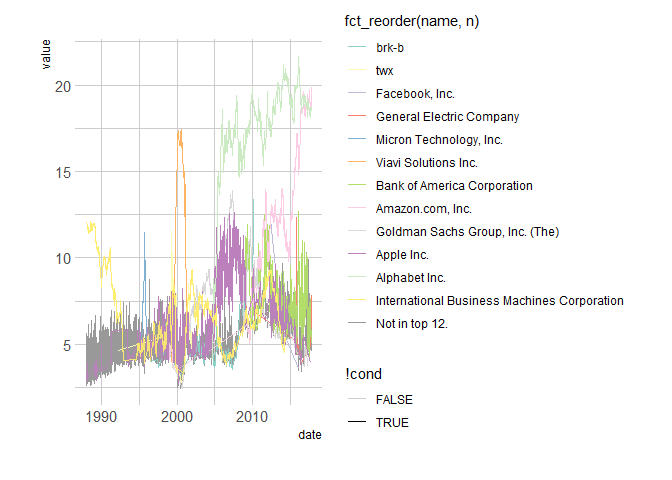
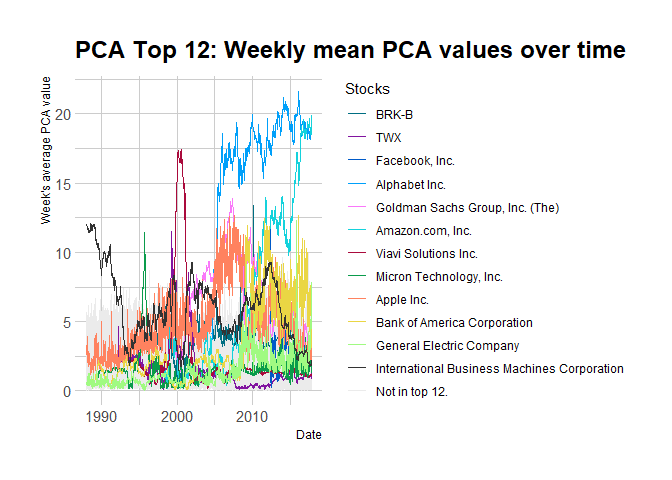
Plot update

diff --git a/eda.md b/eda.md
@@ -74,7 +74,8 @@ days in the dataset.
 Let’s look at one of the days, 2001-06-21:
 
     df_models$pca_model[[400]] %>% 
-      fviz_contrib(choice = "ind", axes = 1:5)
+      fviz_contrib(choice = "ind", axes = 1:5) + 
+      theme(axis.text.x = element_text(size = 7, angle = 90))
 
 ![](eda_files/figure-markdown_strict/unnamed-chunk-2-1.png)
 
@@ -147,12 +148,12 @@ Let’s look at one of the days, 2001-06-21:
     #   fviz_cos2("ind")
 
     df_models$pca_model[[400]] %>%
-      fviz_pca_ind()
+      fviz_pca_ind() 
 
 ![](eda_files/figure-markdown_strict/unnamed-chunk-2-3.png)
 
     df_models$pca_model[[400]] %>%
-      fviz_pca_var()
+      fviz_pca_var(repel = TRUE)
 
 ![](eda_files/figure-markdown_strict/unnamed-chunk-2-4.png)
 
@@ -239,14 +240,97 @@ values over time for each of these stocks.
       arrange(desc(value)) %>% 
       arrange(date) %>% 
       group_by(date) %>% 
-      mutate(rownum = row_number(date)) %>% 
+      mutate(rownum = row_number(date), 
+             stock = str_to_upper(stock)) %>% 
       ungroup() %>% 
       filter(rownum <= 10) %>% # Change this number to get the top X stocks on each day
       left_join(tickers, by = c("stock" = "symbol")) %>% 
       select(date, everything()) %>% 
       filter(rownum <= 5) %>% #distinct(stock) %>%  
       ggplot(aes(date, value)) + 
-      geom_line(aes(color = stock))# + theme(legend.position = "none")
+      geom_line(aes(color = stock)) + 
+      labs(title = "Weekly mean PCA values over time",
+           x = "Date", 
+           y = "Week's average PCA value", 
+           color = "Stocks") + 
+      theme(legend.position = "none") + 
+      theme_ipsum()
+
+    ## Warning in grid.Call(C_stringMetric,
+    ## as.graphicsAnnot(x$label)): font family not
+    ## found in Windows font database
+
+    ## Warning in grid.Call(C_stringMetric,
+    ## as.graphicsAnnot(x$label)): font family not
+    ## found in Windows font database
+
+    ## Warning in grid.Call(C_textBounds,
+    ## as.graphicsAnnot(x$label), x$x, x$y, : font
+    ## family not found in Windows font database
+
+    ## Warning in grid.Call(C_stringMetric,
+    ## as.graphicsAnnot(x$label)): font family not
+    ## found in Windows font database
+
+    ## Warning in grid.Call(C_stringMetric,
+    ## as.graphicsAnnot(x$label)): font family not
+    ## found in Windows font database
+
+    ## Warning in grid.Call(C_textBounds,
+    ## as.graphicsAnnot(x$label), x$x, x$y, : font
+    ## family not found in Windows font database
+
+    ## Warning in grid.Call(C_textBounds,
+    ## as.graphicsAnnot(x$label), x$x, x$y, : font
+    ## family not found in Windows font database
+
+    ## Warning in grid.Call(C_textBounds,
+    ## as.graphicsAnnot(x$label), x$x, x$y, : font
+    ## family not found in Windows font database
+
+    ## Warning in grid.Call(C_textBounds,
+    ## as.graphicsAnnot(x$label), x$x, x$y, : font
+    ## family not found in Windows font database
+
+    ## Warning in grid.Call(C_textBounds,
+    ## as.graphicsAnnot(x$label), x$x, x$y, : font
+    ## family not found in Windows font database
+
+    ## Warning in grid.Call(C_textBounds,
+    ## as.graphicsAnnot(x$label), x$x, x$y, : font
+    ## family not found in Windows font database
+
+    ## Warning in grid.Call(C_textBounds,
+    ## as.graphicsAnnot(x$label), x$x, x$y, : font
+    ## family not found in Windows font database
+
+    ## Warning in grid.Call(C_textBounds,
+    ## as.graphicsAnnot(x$label), x$x, x$y, : font
+    ## family not found in Windows font database
+
+    ## Warning in grid.Call(C_textBounds,
+    ## as.graphicsAnnot(x$label), x$x, x$y, : font
+    ## family not found in Windows font database
+
+    ## Warning in grid.Call(C_textBounds,
+    ## as.graphicsAnnot(x$label), x$x, x$y, : font
+    ## family not found in Windows font database
+
+    ## Warning in grid.Call.graphics(C_text,
+    ## as.graphicsAnnot(x$label), x$x, x$y, : font
+    ## family not found in Windows font database
+
+    ## Warning in grid.Call(C_textBounds,
+    ## as.graphicsAnnot(x$label), x$x, x$y, : font
+    ## family not found in Windows font database
+
+    ## Warning in grid.Call(C_textBounds,
+    ## as.graphicsAnnot(x$label), x$x, x$y, : font
+    ## family not found in Windows font database
+
+    ## Warning in grid.Call(C_textBounds,
+    ## as.graphicsAnnot(x$label), x$x, x$y, : font
+    ## family not found in Windows font database
 
 ![](eda_files/figure-markdown_strict/unnamed-chunk-4-1.png)
 
@@ -270,7 +354,73 @@ values over time for each of these stocks.
       ungroup() %>% 
       filter(max_value >= 11) %>% 
       ggplot(aes(date, value)) + 
-      geom_line(aes(color = name))# + theme(legend.position = "none")
+      geom_line(aes(color = name)) + 
+      labs(title = "PCA Top 12: Weekly mean PCA values over time",
+           x = "Date", 
+           y = "Weekly average PCA value", 
+           color = "Stocks") + 
+      theme(legend.position = "none") + 
+      theme_ipsum()
+
+    ## Warning in grid.Call(C_textBounds,
+    ## as.graphicsAnnot(x$label), x$x, x$y, : font
+    ## family not found in Windows font database
+
+    ## Warning in grid.Call(C_textBounds,
+    ## as.graphicsAnnot(x$label), x$x, x$y, : font
+    ## family not found in Windows font database
+
+    ## Warning in grid.Call(C_textBounds,
+    ## as.graphicsAnnot(x$label), x$x, x$y, : font
+    ## family not found in Windows font database
+
+    ## Warning in grid.Call(C_textBounds,
+    ## as.graphicsAnnot(x$label), x$x, x$y, : font
+    ## family not found in Windows font database
+
+    ## Warning in grid.Call(C_textBounds,
+    ## as.graphicsAnnot(x$label), x$x, x$y, : font
+    ## family not found in Windows font database
+
+    ## Warning in grid.Call(C_textBounds,
+    ## as.graphicsAnnot(x$label), x$x, x$y, : font
+    ## family not found in Windows font database
+
+    ## Warning in grid.Call(C_textBounds,
+    ## as.graphicsAnnot(x$label), x$x, x$y, : font
+    ## family not found in Windows font database
+
+    ## Warning in grid.Call(C_textBounds,
+    ## as.graphicsAnnot(x$label), x$x, x$y, : font
+    ## family not found in Windows font database
+
+    ## Warning in grid.Call(C_textBounds,
+    ## as.graphicsAnnot(x$label), x$x, x$y, : font
+    ## family not found in Windows font database
+
+    ## Warning in grid.Call(C_textBounds,
+    ## as.graphicsAnnot(x$label), x$x, x$y, : font
+    ## family not found in Windows font database
+
+    ## Warning in grid.Call(C_textBounds,
+    ## as.graphicsAnnot(x$label), x$x, x$y, : font
+    ## family not found in Windows font database
+
+    ## Warning in grid.Call.graphics(C_text,
+    ## as.graphicsAnnot(x$label), x$x, x$y, : font
+    ## family not found in Windows font database
+
+    ## Warning in grid.Call(C_textBounds,
+    ## as.graphicsAnnot(x$label), x$x, x$y, : font
+    ## family not found in Windows font database
+
+    ## Warning in grid.Call(C_textBounds,
+    ## as.graphicsAnnot(x$label), x$x, x$y, : font
+    ## family not found in Windows font database
+
+    ## Warning in grid.Call(C_textBounds,
+    ## as.graphicsAnnot(x$label), x$x, x$y, : font
+    ## family not found in Windows font database
 
 ![](eda_files/figure-markdown_strict/unnamed-chunk-4-2.png)
 
@@ -285,77 +435,74 @@ values over time for each of these stocks.
       group_by(date) %>% 
       mutate(rownum = row_number(date)) %>% 
       ungroup() %>% 
-      filter(rownum <= 5) %>% #distinct(stock) %>% 
       left_join(tickers, by = c("stock" = "symbol")) %>% 
       group_by(stock) %>% 
       mutate(max_value = max(value)) %>% 
       ungroup() %>% 
       mutate(name = if_else(max_value > 11, name, "Not in top 12."), 
-             cond = if_else(max_value > 11, TRUE, FALSE)) %>% 
+             cond = if_else(max_value > 11, TRUE, FALSE), 
+             stock = str_to_upper(stock)) %>% 
       group_by(name) %>% 
       mutate(n = sum(!is.na(name))) %>%
       ungroup() %>% 
       mutate(name = if_else(is.na(name), stock, name), 
              name = as.factor(name)) %>% 
-      ggplot(aes(date, value)) + 
-      geom_line(aes(color = fct_reorder(name, n), 
-                    alpha = !cond)) +
-      geom_line(aes(color = fct_reorder(name, n),
-                    alpha = cond)) +
-      scale_color_manual(values = c(RColorBrewer::brewer.pal(12, "Set3"), "Grey60")) + 
-      hrbrthemes::theme_ipsum()
+      ggplot(aes(date, value, color = fct_reorder(name, n))) + 
+      geom_line(aes(alpha = !cond), show.legend = FALSE) +
+      geom_line(aes(alpha = cond)) +
+      guides(alpha = FALSE) + 
+      scale_color_manual(values = c("#006E82", "#8214A0", "#005AC8", "#00A0FA", "#FA78FA", "#14D2DC", "#AA0A3C", "#0A9B4B", "#FF825F", "#EAD644", "#A0FA82", "grey20", "grey92")) + 
+      labs(title = "PCA Top 12: Weekly mean PCA values over time",
+           x = "Date", 
+           y = "Weekly average PCA value", 
+           color = "Stocks") + 
+      theme_ipsum()
 
-    ## Warning: Using alpha for a discrete variable is not advised.
+    ## Warning: Using alpha for a discrete variable
+    ## is not advised.
 
-    ## Warning in grid.Call(C_stringMetric, as.graphicsAnnot(x$label)): font
-    ## family not found in Windows font database
+    ## Warning: font family not found in Windows font
+    ## database
 
-    ## Warning in grid.Call(C_stringMetric, as.graphicsAnnot(x$label)): font
-    ## family not found in Windows font database
+    ## Warning: font family not found in Windows font
+    ## database
 
-    ## Warning in grid.Call(C_textBounds, as.graphicsAnnot(x$label), x$x, x$y, :
-    ## font family not found in Windows font database
+    ## Warning: font family not found in Windows font
+    ## database
 
-    ## Warning in grid.Call(C_stringMetric, as.graphicsAnnot(x$label)): font
-    ## family not found in Windows font database
+    ## Warning: font family not found in Windows font
+    ## database
 
-    ## Warning in grid.Call(C_textBounds, as.graphicsAnnot(x$label), x$x, x$y, :
-    ## font family not found in Windows font database
+    ## Warning: font family not found in Windows font
+    ## database
 
-    ## Warning in grid.Call(C_textBounds, as.graphicsAnnot(x$label), x$x, x$y, :
-    ## font family not found in Windows font database
+    ## Warning: font family not found in Windows font
+    ## database
 
-    ## Warning in grid.Call(C_textBounds, as.graphicsAnnot(x$label), x$x, x$y, :
-    ## font family not found in Windows font database
+    ## Warning: font family not found in Windows font
+    ## database
 
-    ## Warning in grid.Call(C_textBounds, as.graphicsAnnot(x$label), x$x, x$y, :
-    ## font family not found in Windows font database
+    ## Warning: font family not found in Windows font
+    ## database
 
-    ## Warning in grid.Call(C_textBounds, as.graphicsAnnot(x$label), x$x, x$y, :
-    ## font family not found in Windows font database
+    ## Warning: font family not found in Windows font
+    ## database
 
-    ## Warning in grid.Call(C_textBounds, as.graphicsAnnot(x$label), x$x, x$y, :
-    ## font family not found in Windows font database
+    ## Warning: font family not found in Windows font
+    ## database
 
-    ## Warning in grid.Call(C_textBounds, as.graphicsAnnot(x$label), x$x, x$y, :
-    ## font family not found in Windows font database
+    ## Warning: font family not found in Windows font
+    ## database
 
-    ## Warning in grid.Call(C_textBounds, as.graphicsAnnot(x$label), x$x, x$y, :
-    ## font family not found in Windows font database
+    ## Warning: font family not found in Windows font
+    ## database
 
-    ## Warning in grid.Call.graphics(C_text, as.graphicsAnnot(x$label), x$x,
-    ## x$y, : font family not found in Windows font database
+    ## Warning: font family not found in Windows font
+    ## database
 
-    ## Warning in grid.Call(C_textBounds, as.graphicsAnnot(x$label), x$x, x$y, :
-    ## font family not found in Windows font database
+    ## Warning: font family not found in Windows font
+    ## database
 
-    ## Warning in grid.Call(C_textBounds, as.graphicsAnnot(x$label), x$x, x$y, :
-    ## font family not found in Windows font database
-
-    ## Warning in grid.Call(C_textBounds, as.graphicsAnnot(x$label), x$x, x$y, :
-    ## font family not found in Windows font database
-
-    ## Warning in grid.Call(C_textBounds, as.graphicsAnnot(x$label), x$x, x$y, :
-    ## font family not found in Windows font database
+    #c("000000", "006E82", "8214A0", "005AC8", "00A0FA", "FA78FA", "14D2DC", "AA0A3C", "0A9B4B", "FF825F", "EAD644", "A0FA82", "FAE6BE")
 
 ![](eda_files/figure-markdown_strict/unnamed-chunk-4-3.png)
